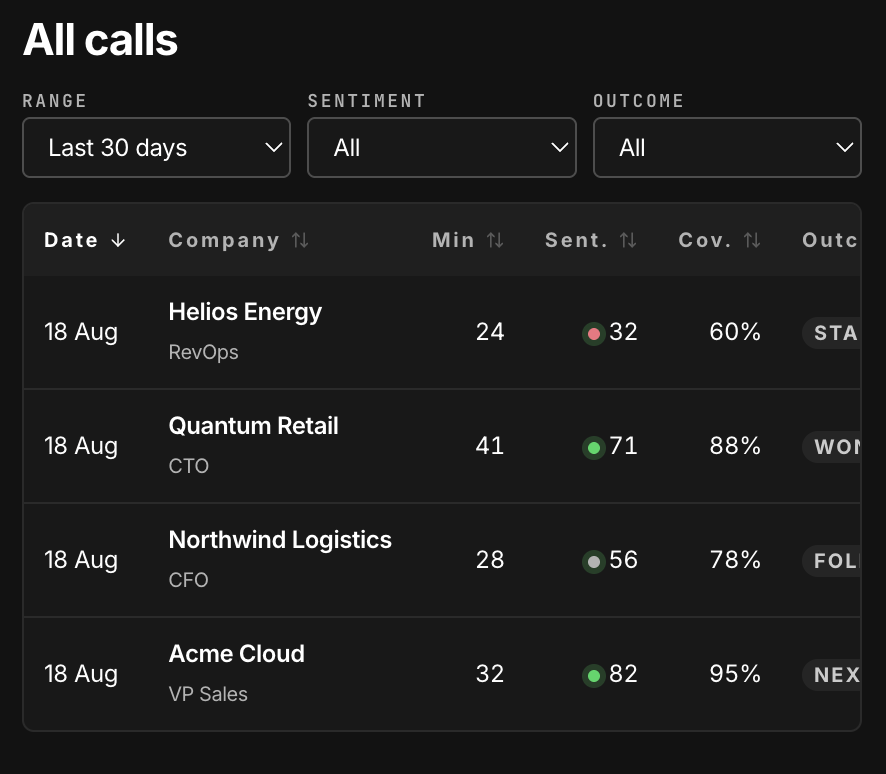
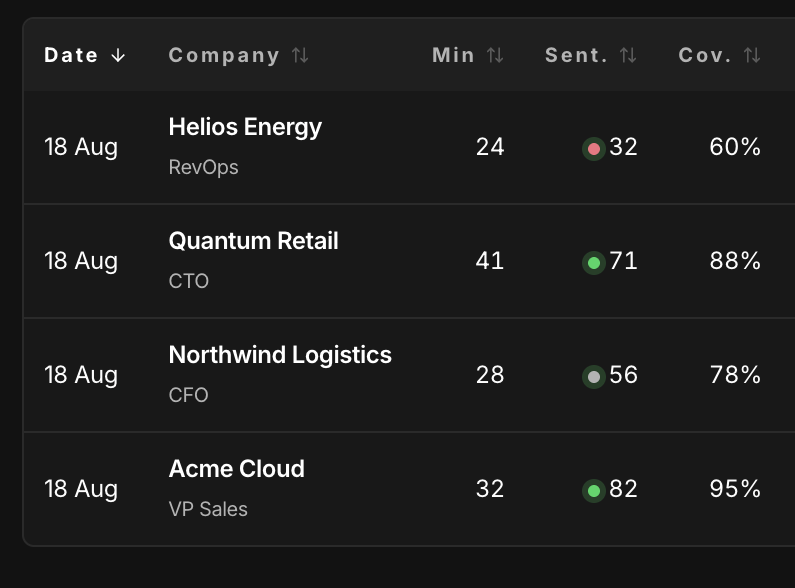
docs: put real product screens in the README (#149)
Closes nothing; docs only.

diff --git a/README.md b/README.md
@@ -14,6 +14,12 @@ Live coaching during Google Meet calls, pitch generation grounded in your own kn
 [![FastAPI](https://img.shields.io/badge/FastAPI-0.115-009688)](https://fastapi.tiangolo.com)
 [![BYOL](https://img.shields.io/badge/LLM-Bring%20Your%20Own%20Keys-F58549)](docs/configuration.md)
 
+<br />
+
+<img src="docs/screenshots/insights.png" alt="Wingman's Insights tab: win rate, average sentiment, objections handled and total calls for the week." width="720" />
+
+<sub>Insights after a week of calls. Every screenshot here is the real extension, with sample data loaded.</sub>
+
 </div>
 
 ---
@@ -30,6 +36,15 @@ A sales rep's typical hour: jump into Google Meet, lose track of the agenda, fum
 - **After the call.** A structured summary with agenda coverage, sentiment timeline, objections and action items. One click pushes it to Zoho CRM.
 
 Everything is grounded: each numeric claim must cite a source from your knowledge base, and a dedicated validation agent rejects anything uncited.
+
+### The loop, in screens
+
+| | |
+|---|---|
+| **Load your material.** Case studies and battle cards, indexed and chunked. Every citation resolves back to one of these. | <img src="docs/screenshots/knowledge-base.png" alt="Knowledge base: five entries, five of five indexed." width="420" /> |
+| **Draft the pitch.** Five output formats and a buyer persona. Live meeting mode on for the call itself. | <img src="docs/screenshots/pitch-setup.png" alt="Pitch setup with output formats and live meeting mode on." width="300" /> |
+| **Take the calls.** Each one lands with its sentiment and how much of the agenda you covered. | <img src="docs/screenshots/call-history.png" alt="Call history with sentiment and agenda coverage per call." width="420" /> |
+
 
 **[Full feature detail →](docs/features.md)**
 
